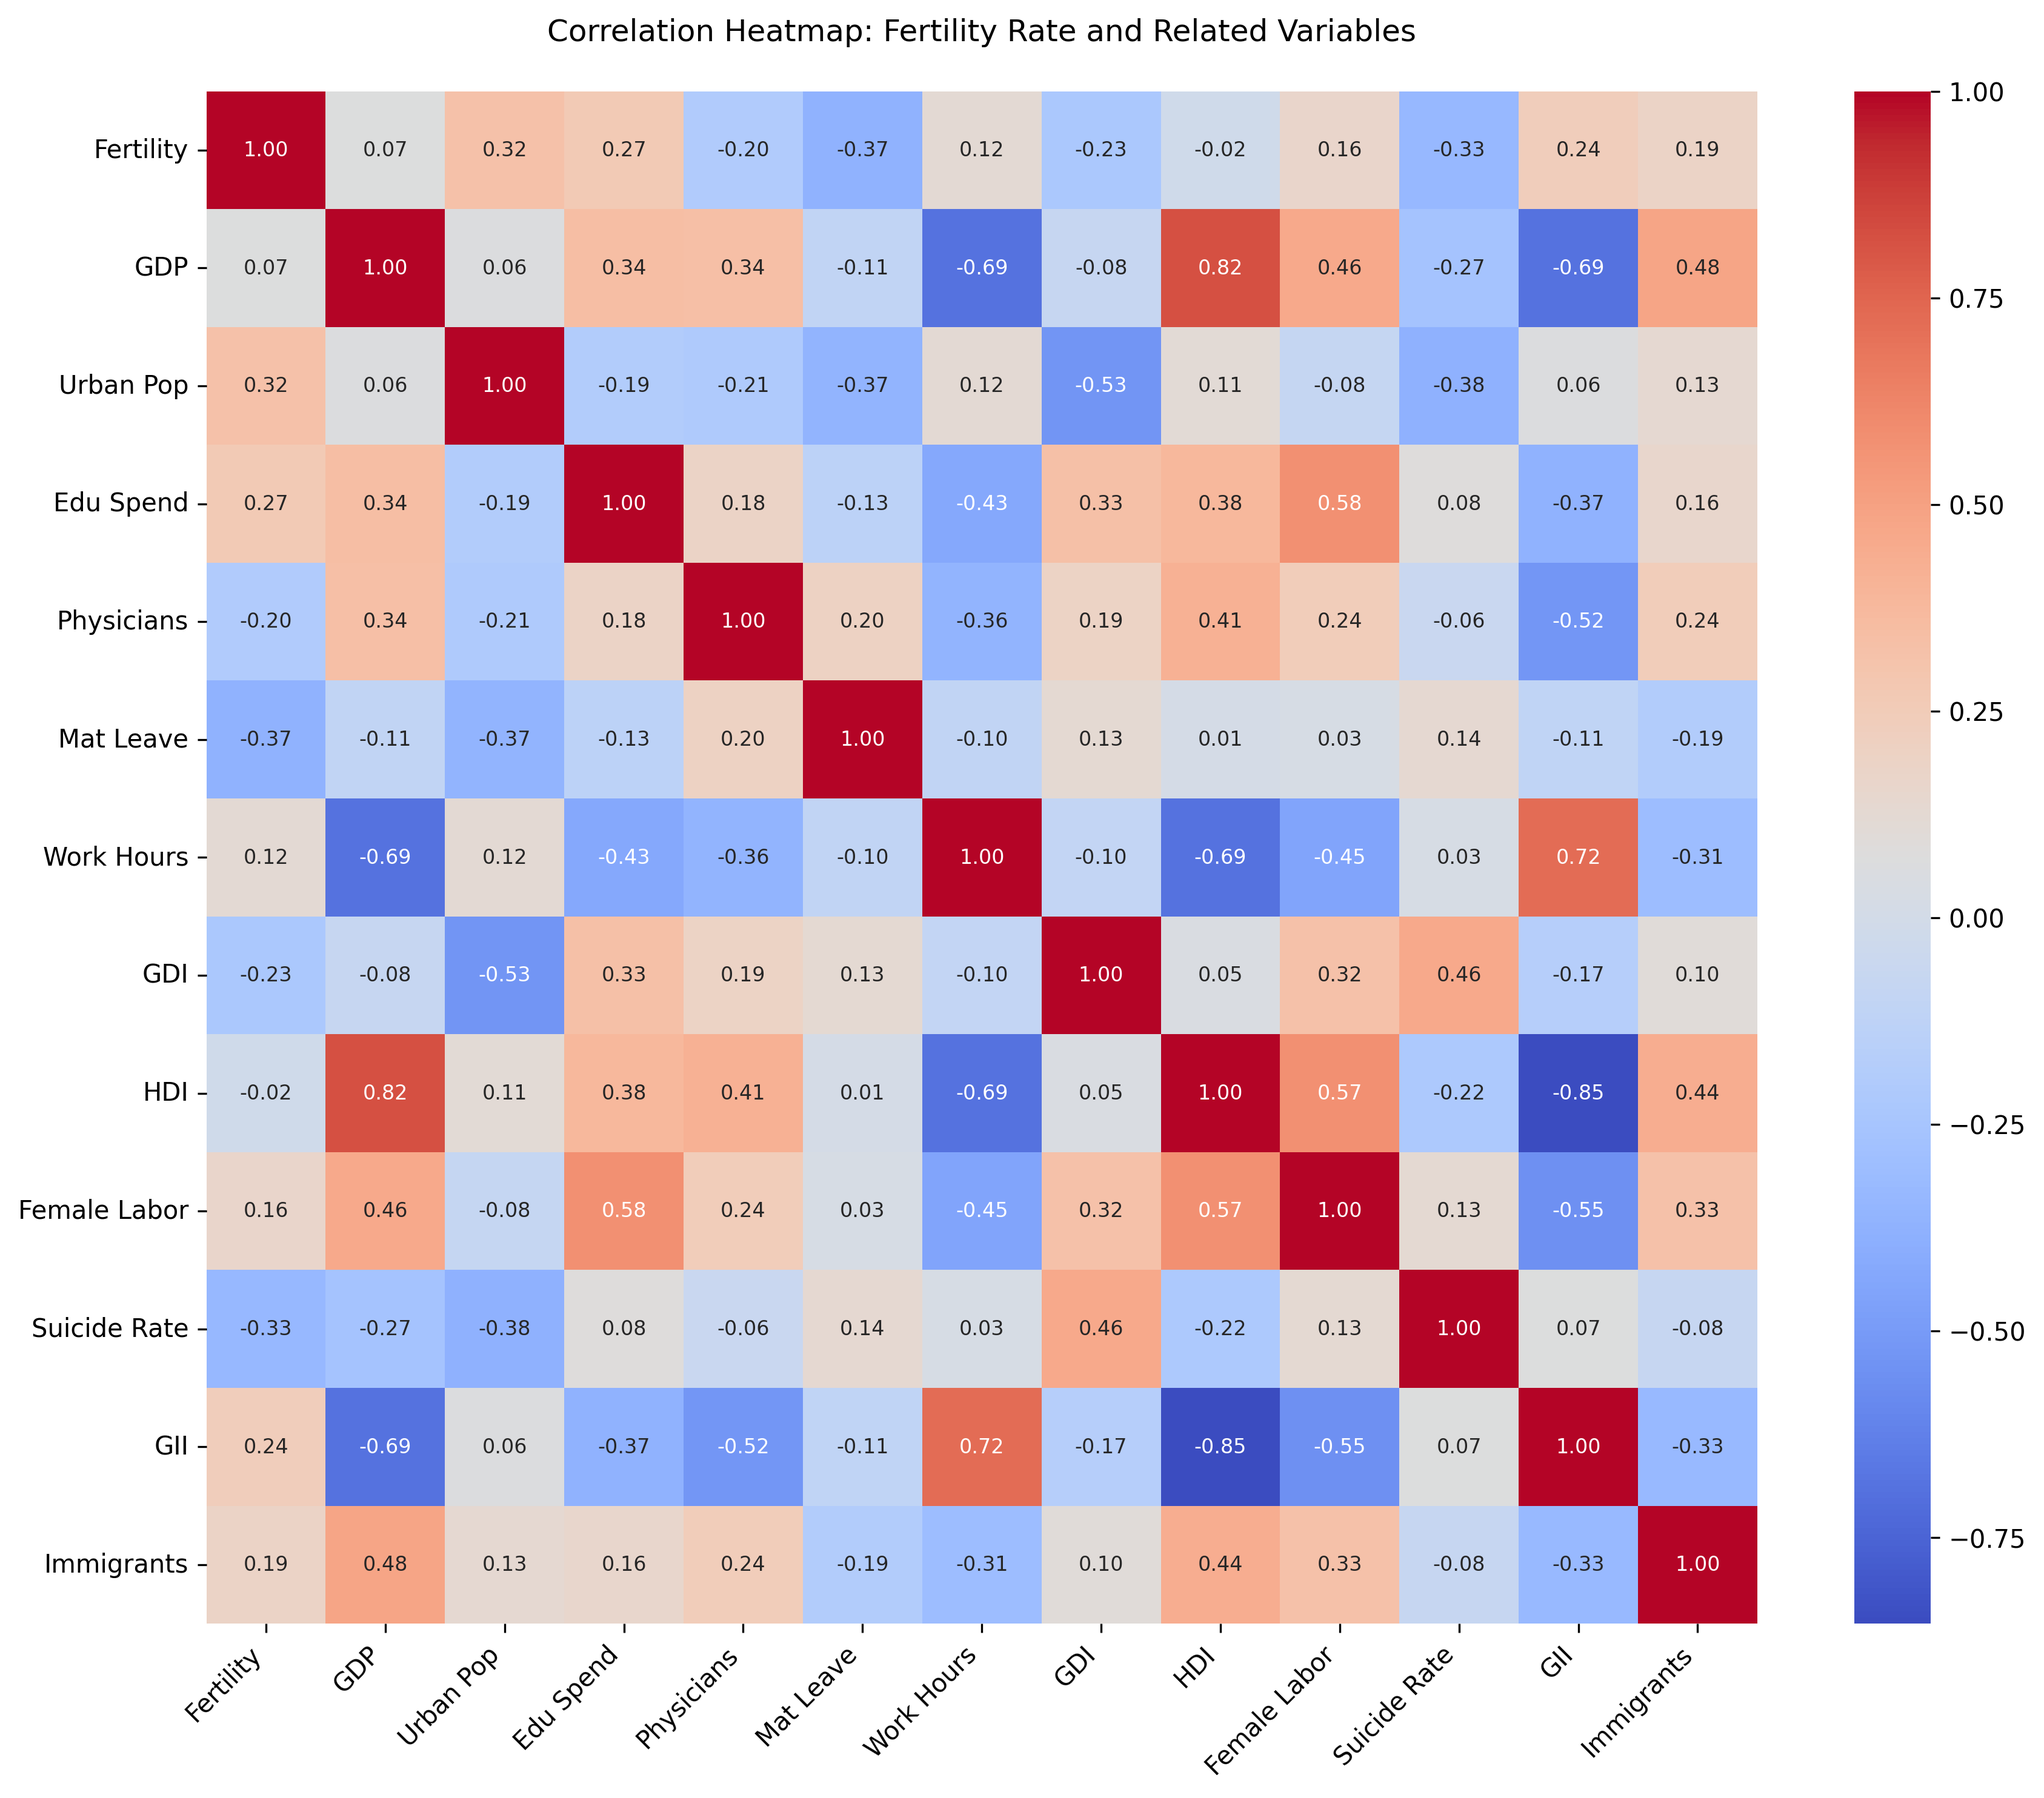
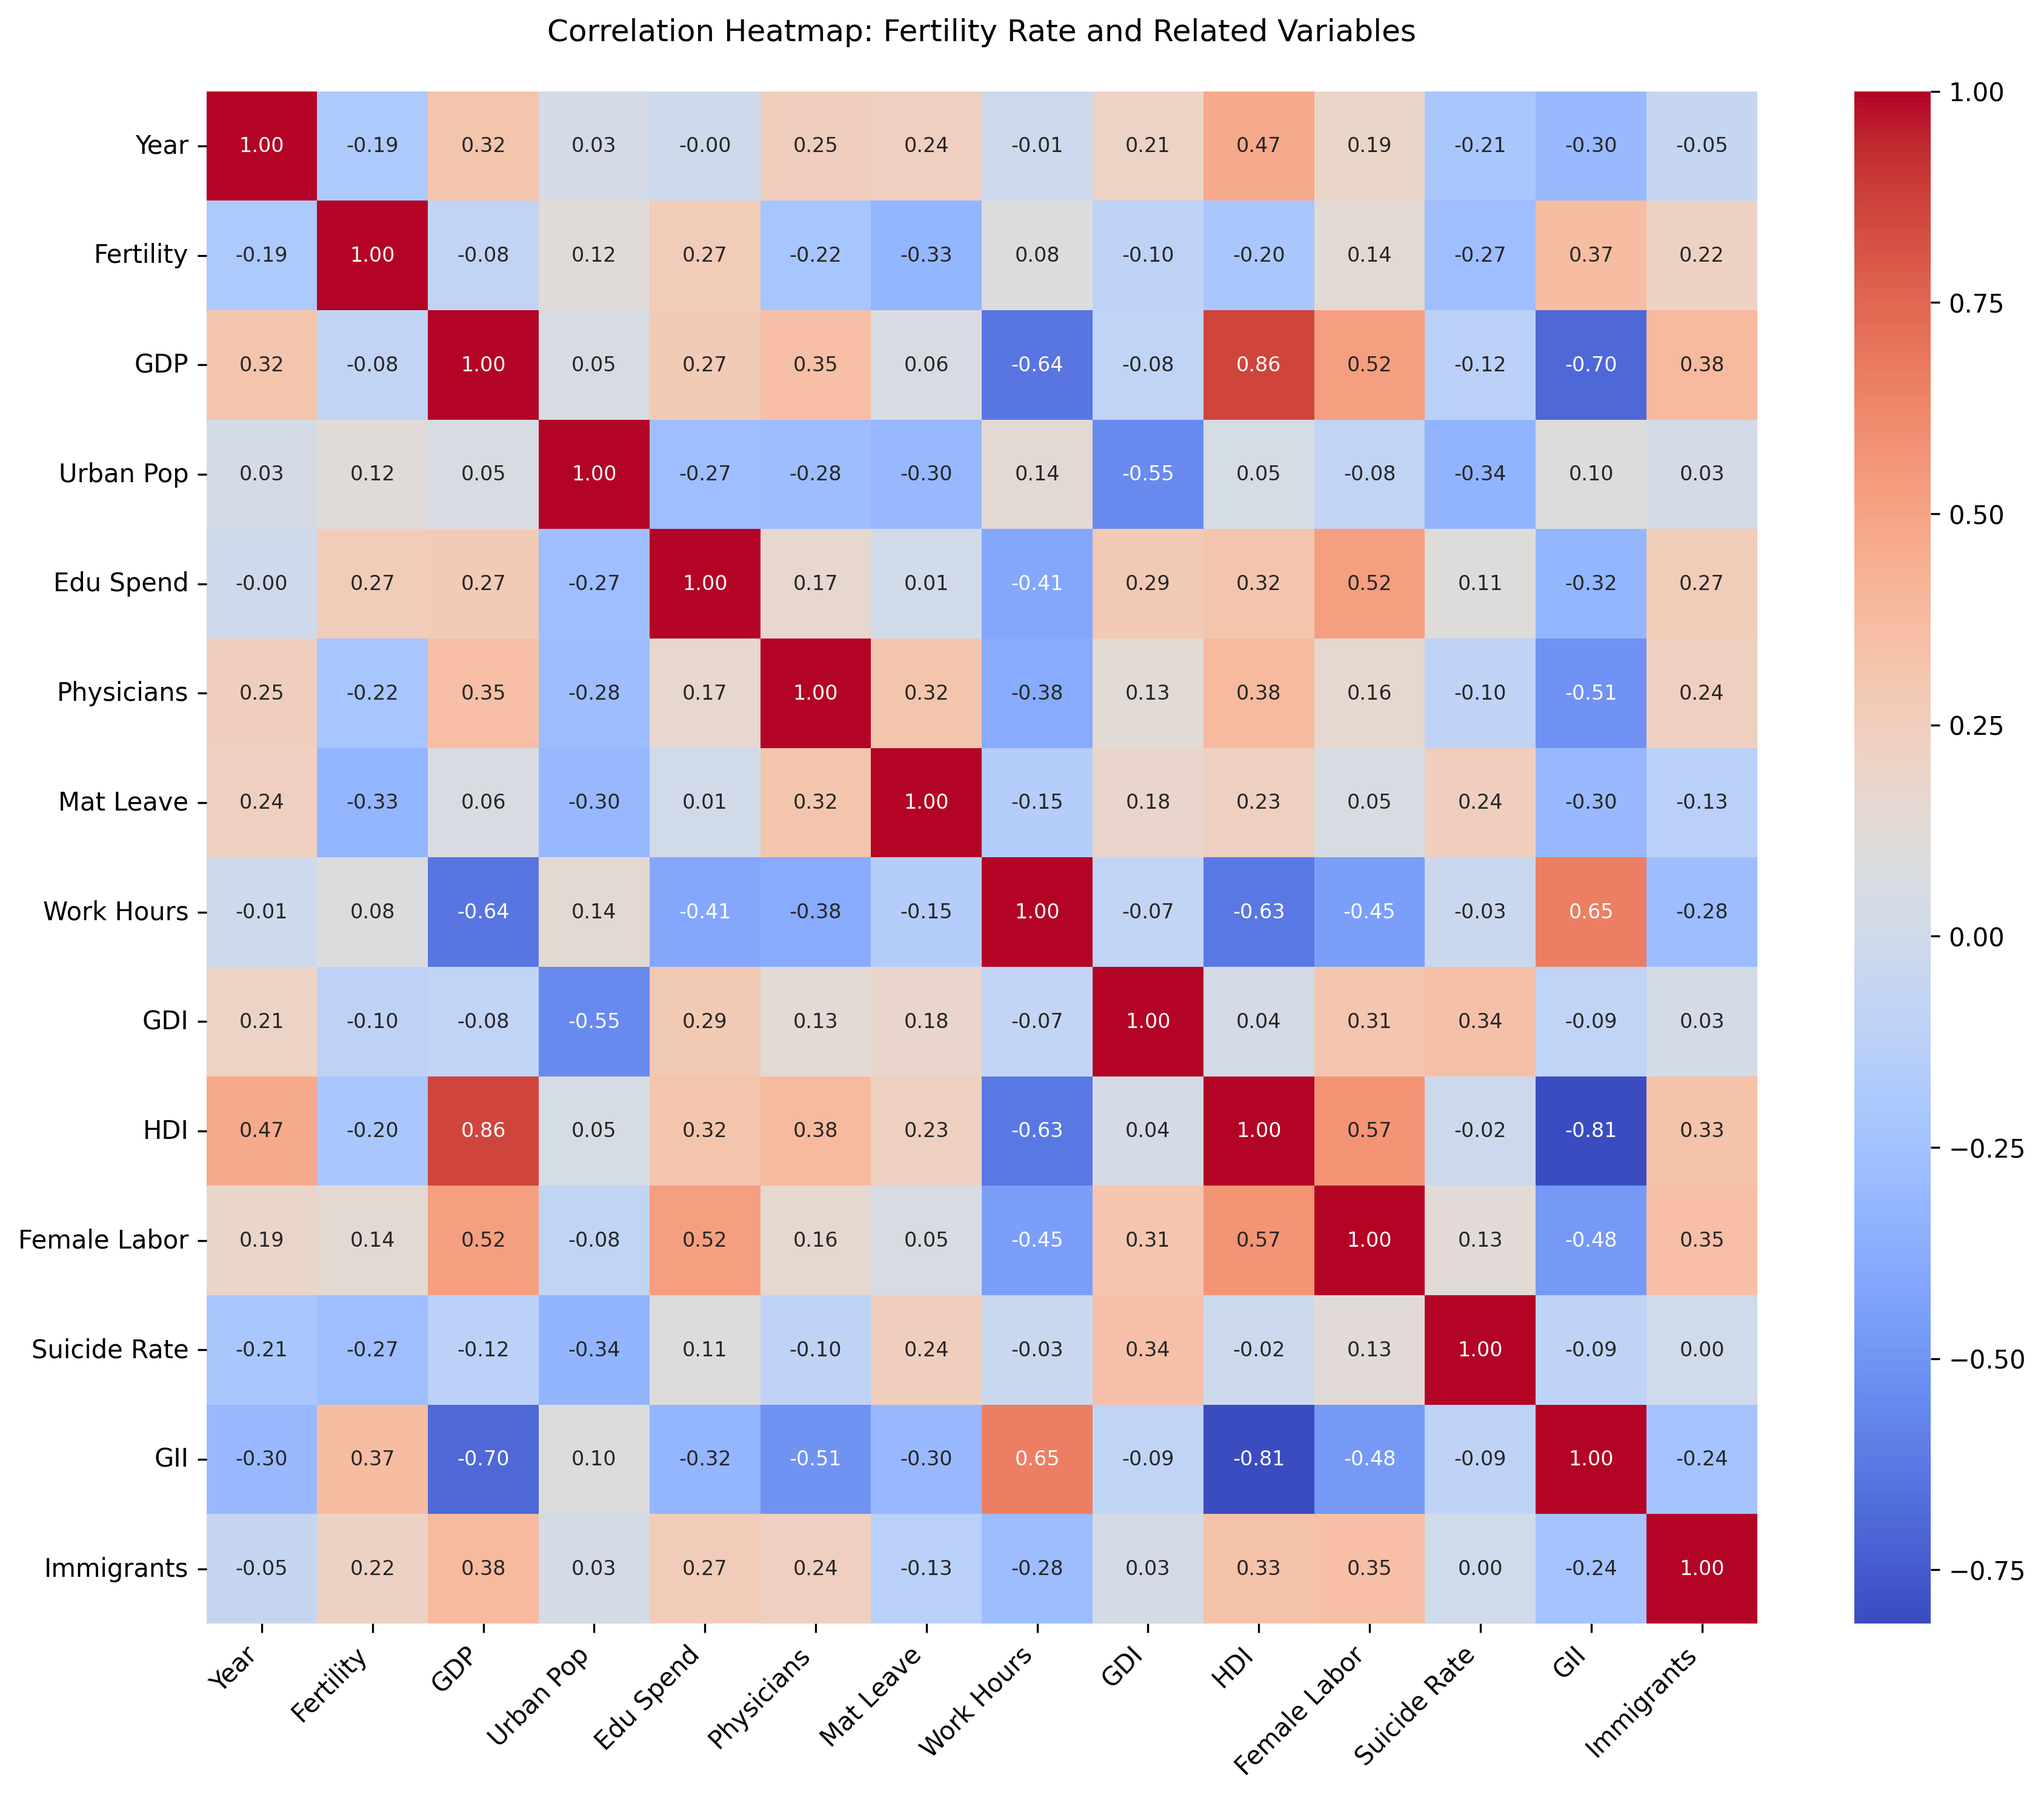
normal svm

diff --git a/src/fertility_analysis_complete.py b/src/fertility_analysis_complete.py
@@ -1,31 +1,44 @@
-
 import pandas as pd
-from sklearn.model_selection import train_test_split
-from sklearn.linear_model import LinearRegression
+import numpy as np
+from sklearn.preprocessing import StandardScaler
 from sklearn.svm import SVR
 from sklearn.pipeline import Pipeline
-from sklearn.preprocessing import StandardScaler
-from sklearn.metrics import mean_squared_error, r2_score
+from sklearn.metrics import mean_squared_error, r2_score, mean_absolute_error
+from sklearn.model_selection import TimeSeriesSplit
+from statsmodels.stats.outliers_influence import variance_inflation_factor
 import matplotlib.pyplot as plt
 import seaborn as sns
+from linearmodels import PanelOLS
 
-# Load the dataset
+def remove_outliers(df, columns, n_std=3):
+    """異常値の除去"""
+    for col in columns:
+        mean = df[col].mean()
+        std = df[col].std()
+        df = df[(abs(df[col] - mean) <= (n_std * std))]
+    return df
+
+def check_multicollinearity(X):
+    """マルチコリニアリティのチェック"""
+    vif_data = pd.DataFrame()
+    vif_data["Variable"] = X.columns
+    vif_data["VIF"] = [variance_inflation_factor(X.values, i) for i in range(X.shape[1])]
+    return vif_data
+
+# データの読み込みと前処理
 file_path = "../data/processed/combined_data.csv"
 data = pd.read_csv(file_path)
 
-# 2020年のデータのみをフィルタリング
-# data = data[data['Year'] == 2020]
-
-# Data preprocessing
+# 基本的な特徴量の作成
 data["Immigrant Ratio"] = (
     data["Total number of international immigrants"] /
     data["Population - Sex: all - Age: all - Variant: estimates_population-with-un-projections.csv"]
 )
 data["Fertility Rate"] = data["Fertility rate - Sex: all - Age: all - Variant: estimates"]
 
+# 分析に使用する列の定義
 all_columns = [
-    "Fertility Rate",
-    "GDP per capita",
+    "Entity", "Year", "Fertility Rate", "GDP per capita",
     "Share of population living in urban areas",
     "Public spending on education as a share of GDP",
     "Physicians (per 1,000 people)",
@@ -39,7 +52,9 @@ all_columns = [
     "Immigrant Ratio"
 ]
 
+# 変数名のマッピング
 variable_mapping = {
+    "Entity": "Country",
     "Fertility Rate": "Fertility",
     "GDP per capita": "GDP",
     "Share of population living in urban areas": "Urban Pop",
@@ -55,18 +70,33 @@ variable_mapping = {
     "Immigrant Ratio": "Immigrants"
 }
 
-filtered_data = data[all_columns].dropna()
-filtered_data_renamed = filtered_data.rename(columns=variable_mapping)
-# Correlation analysis
+# データの前処理
+filtered_data = data[all_columns].copy()
+filtered_data = filtered_data.rename(columns=variable_mapping)
+
+# 国ごとの欠損値を平均値で補完
+numeric_columns = filtered_data.select_dtypes(include=[np.number]).columns
+filtered_data[numeric_columns] = filtered_data.groupby('Country')[numeric_columns].transform(
+    lambda x: x.fillna(x.mean())
+)
+
+# 残りの欠損値を含む行を削除
+filtered_data = filtered_data.dropna()
+
+# 異常値の除去
+numeric_cols = filtered_data.select_dtypes(include=[np.number]).columns
+filtered_data = remove_outliers(filtered_data, numeric_cols)
+
+# 相関分析
 plt.figure(figsize=(12, 10))
-correlation_matrix = filtered_data_renamed.corr()
-sns.heatmap(correlation_matrix, 
-    annot=True, 
-    fmt=".2f", 
+correlation_matrix = filtered_data.select_dtypes(include=[np.number]).corr()
+sns.heatmap(correlation_matrix,
+    annot=True,
+    fmt=".2f",
     cmap="coolwarm",
     xticklabels=correlation_matrix.columns,
     yticklabels=correlation_matrix.columns,
-    annot_kws={'size': 8}  # 相関係数の文字サイズを調整
+    annot_kws={'size': 8}
 )
 plt.xticks(rotation=45, ha='right')
 plt.yticks(rotation=0)
@@ -75,61 +105,142 @@ plt.tight_layout()
 plt.savefig("../results/figures/correlation_heatmap.png", dpi=300, bbox_inches='tight')
 plt.close()
 
-# Linear regression
-X = filtered_data.drop(columns=["Fertility Rate"])
-y = filtered_data["Fertility Rate"]
-X_train, X_test, y_train, y_test = train_test_split(X, y, test_size=0.2, random_state=42)
+# マルチコリニアリティのチェック
+X_cols = [col for col in numeric_cols if col not in ['Fertility', 'Year']]
+vif_df = check_multicollinearity(filtered_data[X_cols])
+print("VIF Values:")
+print(vif_df)
 
-linear_model = LinearRegression()
-linear_model.fit(X_train, y_train)
-y_pred_linear = linear_model.predict(X_test)
-mse_linear = mean_squared_error(y_test, y_pred_linear)
-r2_linear = r2_score(y_test, y_pred_linear)
+# 時系列による訓練データとテストデータの分割
+train_end_year = 2018
+X = filtered_data[X_cols]
+y = filtered_data['Fertility']
 
-coefficients = pd.DataFrame({
-    "Feature": X.columns,
-    "Coefficient": linear_model.coef_
-})
-coefficients.to_csv("../results/csv/linear_regression_coefficients.csv", index=False)
+X_train = X[filtered_data['Year'] <= train_end_year]
+X_test = X[filtered_data['Year'] > train_end_year]
+y_train = y[filtered_data['Year'] <= train_end_year]
+y_test = y[filtered_data['Year'] > train_end_year]
 
-# SVM regression
-svm_model = Pipeline([
+# パネルデータ分析
+panel_data = filtered_data.set_index(['Country', 'Year'])
+exog_vars = X_cols
+panel_model = PanelOLS(panel_data['Fertility'], 
+                      panel_data[exog_vars],
+                      entity_effects=True)
+panel_results = panel_model.fit()
+print("\nPanel Regression Results:")
+print(panel_results)
+
+# SVMモデル（時系列クロスバリデーション付き）
+tscv = TimeSeriesSplit(n_splits=5)
+svm_scores = []
+
+for train_idx, val_idx in tscv.split(X_train):
+    X_train_cv, X_val_cv = X_train.iloc[train_idx], X_train.iloc[val_idx]
+    y_train_cv, y_val_cv = y_train.iloc[train_idx], y_train.iloc[val_idx]
+    
+    svm_model = Pipeline([
+        ("scaler", StandardScaler()),
+        ("svr", SVR(kernel="rbf", C=1.0, epsilon=0.1))
+    ])
+    
+    svm_model.fit(X_train_cv, y_train_cv)
+    y_pred_cv = svm_model.predict(X_val_cv)
+    score = r2_score(y_val_cv, y_pred_cv)
+    svm_scores.append(score)
+
+# 最終モデルの評価
+final_svm_model = Pipeline([
     ("scaler", StandardScaler()),
     ("svr", SVR(kernel="rbf", C=1.0, epsilon=0.1))
 ])
-svm_model.fit(X_train, y_train)
-y_pred_svm = svm_model.predict(X_test)
+final_svm_model.fit(X_train, y_train)
+y_pred_svm = final_svm_model.predict(X_test)
+
+# モデル評価指標の計算
 mse_svm = mean_squared_error(y_test, y_pred_svm)
+mae_svm = mean_absolute_error(y_test, y_pred_svm)
 r2_svm = r2_score(y_test, y_pred_svm)
 
-# Actual vs Predicted plot for SVM
-plt.figure(figsize=(10, 8))
-# データポイントに年を追加
-for i, (actual, predicted) in enumerate(zip(y_test, y_pred_svm)):
-    year = data.loc[y_test.index[i], 'Year']  # テストデータのインデックスから年を取得
-    plt.annotate(str(int(year)), 
-                (actual, predicted),
-                xytext=(5, 5),
-                textcoords='offset points',
-                fontsize=8)
+# 予測結果の可視化（改善版）
+plt.figure(figsize=(12, 8))
 
-plt.scatter(y_test, y_pred_svm, alpha=0.7, edgecolor="k", s=100)
-plt.plot([y_test.min(), y_test.max()], [y_test.min(), y_test.max()], 
-    "r--", 
-    lw=2, 
-    label="Perfect Prediction Line"
+# メインの散布図
+scatter = plt.scatter(y_test, y_pred_svm, 
+    alpha=0.7, 
+    c=filtered_data.loc[y_test.index, 'Year'],  # 年による色分け
+    cmap='viridis', 
+    s=100,
+    edgecolor='white',
+    linewidth=0.5
 )
-plt.title("Actual vs Predicted Fertility Rates (SVM Model)", fontsize=14, pad=20)
-plt.xlabel("Actual Fertility Rate", fontsize=12)
-plt.ylabel("Predicted Fertility Rate", fontsize=12)
-plt.legend(fontsize=10)
-plt.grid(True, alpha=0.3)
+
+# 完全一致線
+plt.plot([y_test.min(), y_test.max()], 
+    [y_test.min(), y_test.max()],
+    "r--",
+    lw=2,
+    label="理想的な予測線（実測値=予測値）"
+)
+
+# 誤差範囲の表示
+plt.fill_between(
+    [y_test.min(), y_test.max()],
+    [y_test.min() - mae_svm, y_test.max() - mae_svm],
+    [y_test.min() + mae_svm, y_test.max() + mae_svm],
+    alpha=0.2,
+    color='gray',
+    label=f'平均絶対誤差 (MAE) 範囲: ±{mae_svm:.3f}'
+)
+
+# データポイントのラベル付け
+for i, (actual, predicted) in enumerate(zip(y_test, y_pred_svm)):
+    year = filtered_data.loc[y_test.index[i], 'Year']
+    country = filtered_data.loc[y_test.index[i], 'Country']
+    
+    # 予測誤差が大きいポイントのみラベル表示
+    error = abs(actual - predicted)
+    if error > mae_svm:
+        plt.annotate(f'{country}\n{int(year)}',
+                    (actual, predicted),
+                    xytext=(5, 5),
+                    textcoords='offset points',
+                    fontsize=8,
+                    bbox=dict(facecolor='white', edgecolor='none', alpha=0.7))
+
+# グラフの装飾
+plt.colorbar(scatter, label='予測年')
+plt.title("出生率の実測値と予測値の比較\n(SVMモデルによる予測)", 
+    fontsize=14, 
+    pad=20
+)
+plt.xlabel("実測値 (出生率)", fontsize=12)
+plt.ylabel("予測値 (出生率)", fontsize=12)
+
+# 統計情報の追加
+stats_text = f'モデル性能指標:\nR² = {r2_svm:.3f}\nMSE = {mse_svm:.3f}\nMAE = {mae_svm:.3f}'
+plt.text(0.05, 0.95, 
+    stats_text,
+    transform=plt.gca().transAxes,
+    bbox=dict(facecolor='white', edgecolor='gray', alpha=0.8),
+    verticalalignment='top',
+    fontsize=10
+)
+
+plt.legend(fontsize=10, loc='lower right')
+plt.grid(True, alpha=0.3, linestyle='--')
 plt.tight_layout()
-plt.savefig("../results/figures/svm_actual_vs_predicted.png", dpi=300, bbox_inches='tight')
+
+# グラフの保存
+plt.savefig("../results/figures/svm_actual_vs_predicted_improved.png", 
+    dpi=300, 
+    bbox_inches='tight'
+)
 plt.close()
 
-# Print results
-print("Linear Regression Results:")
-print(f"MSE: {mse_linear}, R^2: {r2_linear}")
-print("SVM Regression Results:")
-print(f"MSE: {mse_svm}, R^2: {r2_svm}")
+# 結果の出力
+print("\nSVM Model Results:")
+print(f"Mean Cross-validation R² score: {np.mean(svm_scores):.4f}")
+print(f"Test set MSE: {mse_svm:.4f}")
+print(f"Test set MAE: {mae_svm:.4f}")
+print(f"Test set R²: {r2_svm:.4f}")
